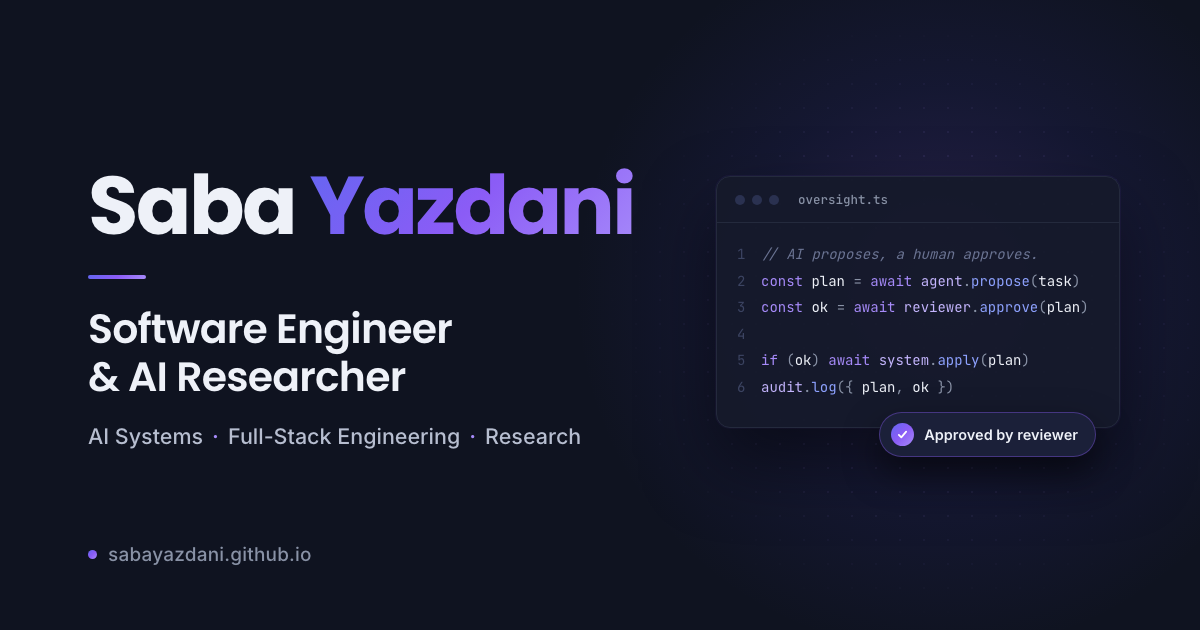
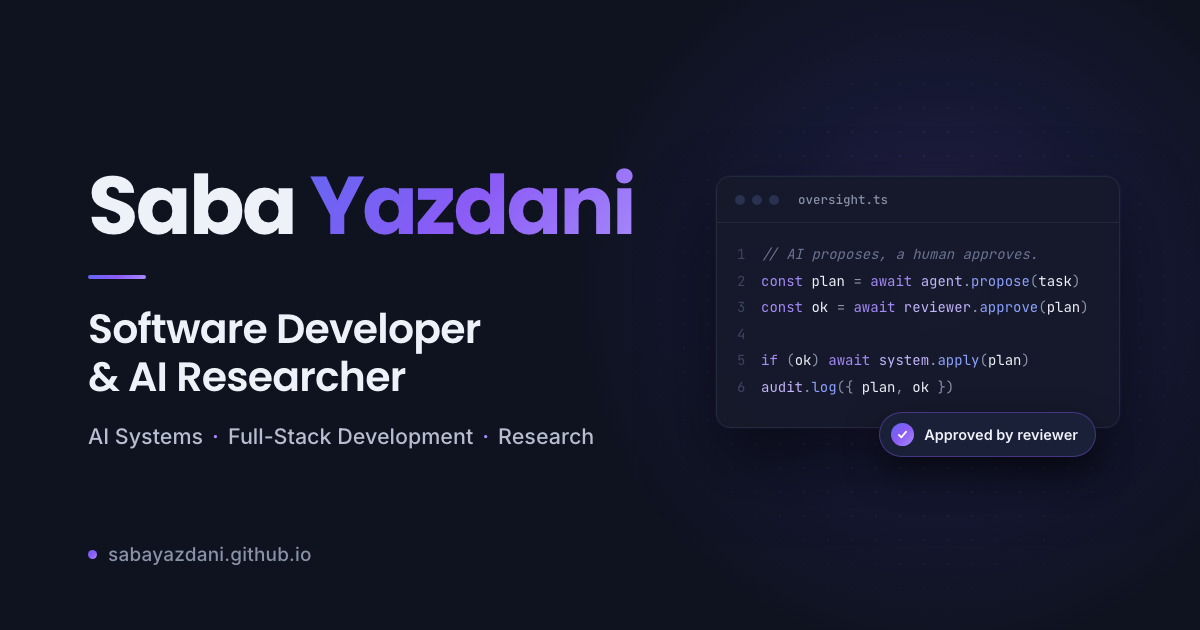
Software Developer title, lead with Realest and Maridian

Changed region(s): [[0.2775, 0.6635, 0.4933, 0.7238], [0.2158, 0.4825, 0.4008, 0.573]]

diff --git a/index.html b/index.html
@@ -3,21 +3,21 @@
 <head>
 <meta charset="utf-8">
 <meta name="viewport" content="width=device-width, initial-scale=1">
-<title>Saba Yazdani | Full-Stack Engineer</title>
+<title>Saba Yazdani | Software Developer</title>
 <meta name="author" content="Saba Yazdani">
-<meta name="description" content="Full-stack engineer in Toronto. Builds and maintains Gradify, an AI-assisted platform in production at York University. React, TypeScript, Node, Python, PostgreSQL, LLM systems.">
-<meta property="og:title" content="Saba Yazdani | Software Engineer &amp; AI Researcher">
-<meta property="og:description" content="Software engineering, AI, research, and selected projects including Gradify and agentic systems. Based in Toronto, with four peer-reviewed publications.">
+<meta name="description" content="Software developer in Toronto building AI products, including the Realest voice agent, the Maridian multi-agent system, and the Gradify grading platform.">
+<meta property="og:title" content="Saba Yazdani | Software Developer &amp; AI Researcher">
+<meta property="og:description" content="Software developer in Toronto building AI products, including the Realest voice agent, the Maridian multi-agent system, and the Gradify grading platform.">
 <meta property="og:type" content="website">
 <meta property="og:url" content="https://sabayazdani.github.io/">
 <meta property="og:image" content="https://sabayazdani.github.io/preview.png">
 <meta property="og:image:width" content="1200">
 <meta property="og:image:height" content="630">
-<meta property="og:image:alt" content="Saba Yazdani | Software Engineer &amp; AI Researcher">
+<meta property="og:image:alt" content="Saba Yazdani | Software Developer &amp; AI Researcher">
 
 <meta name="twitter:card" content="summary_large_image">
-<meta name="twitter:title" content="Saba Yazdani | Software Engineer &amp; AI Researcher">
-<meta name="twitter:description" content="Software engineering, AI, research, and selected projects including Gradify and agentic systems. Based in Toronto, with four peer-reviewed publications.">
+<meta name="twitter:title" content="Saba Yazdani | Software Developer &amp; AI Researcher">
+<meta name="twitter:description" content="Software developer in Toronto building AI products, including the Realest voice agent, the Maridian multi-agent system, and the Gradify grading platform.">
 <meta name="twitter:image" content="https://sabayazdani.github.io/preview.png">
 <script>
   /* runs before first paint: no dark-mode flash, and .reveal only hides content when JS is live */
@@ -73,11 +73,13 @@
     </div>
     <div class="about-grid">
       <div class="reveal">
-        <p>I'm a full-stack engineer in Toronto. I build and maintain <strong>Gradify</strong>, an AI-assisted grading platform that runs in production across senior Computer Science courses at York University. React runs the front end, Java and Spring Boot REST services sit behind it, PostgreSQL holds the data, and Claude and Gemini do the multimodal grading.</p>
-        <h3>The part I care about most</h3>
-        <p>Designing the gate between a model and a consequence. On Gradify the model proposes rubric scores and criterion-level feedback, an instructor reviews, overrides and gives final approval before anything reaches a student, and every decision is logged with its justification. I made the same call independently on Maridian, where an agent pipeline recommends recovery actions but nothing customer-facing ships without operator sign-off.</p>
-        <h3>Research and the rest</h3>
-        <p>I've been a research assistant at York since 2024, across three labs: programming education, data mining, and theoretical computer science. I've co-authored four peer-reviewed publications, three of them as co-first author. Outside the lab I build at hackathons, which is where Maridian and Realest came from.</p>
+        <p>I'm a software developer in Toronto. I build AI products end to end, from the Python and Java services that do the work to the React interfaces people use.</p>
+        <h3>Realest</h3>
+        <p>A voice agent that phones rental listing agents on a renter's behalf to check availability, fees, parking, and pet policies, built with a team of four at the AI Tinkerers hackathon. I built the outbound calling in Python with FastAPI and asyncio, so many calls run at once with per-call timeouts and fallbacks. I also built the email fallback for calls nobody answers, with a guard so no message goes out twice, and the LLM pipeline that turns each call transcript into structured data used to re-rank the listings.</p>
+        <h3>Maridian</h3>
+        <p>A decision layer for a bakery's production floor, built at the TMLS Agentic Hackathon. It takes defect events from the line, runs them through LLM agents for triage, action planning, and scoring, and streams live updates to a React and Next.js dashboard. Nothing customer-facing happens until an operator approves it, and every decision is logged. I built the FastAPI backend, the agent workflow, and the Server-Sent Events stream, and deployed it to Vercel and Railway.</p>
+        <h3>Gradify</h3>
+        <p>The AI-assisted grading platform I build and maintain for senior Computer Science courses at York University. Claude and Gemini propose scores for handwritten and PDF work, and instructors approve each result before students see it. It runs on React, Spring Boot, and PostgreSQL.</p>
       </div>
       <aside class="reveal">
         <ul class="facts">
@@ -192,28 +194,11 @@
     <div class="head reveal">
       <p class="eyebrow">What I've built</p><div class="rule"></div>
       <h2>Selected Projects</h2>
-      <p>One platform in production and two agent systems shipped under hackathon deadlines.</p>
+      <p>Two agent systems shipped under hackathon deadlines, and a platform in production at York University.</p>
     </div>
 
     <article class="proj reveal">
       <div class="num">01</div>
-      <div>
-        <p class="ptag">Production · York University</p>
-        <h3>Gradify: AI-Assisted Grading Platform</h3>
-        <p class="blurb">A full-stack platform that grades handwritten and PDF submissions with multimodal LLMs, and keeps a human in final control of every result.</p>
-        <ul>
-          <li>Built and deployed the full stack for live courses: React instructor, student, and admin workflows over Spring Boot REST APIs, PostgreSQL persistence, and role-based access control.</li>
-          <li>Designed the AI oversight model. The model proposes rubric scores and criterion-level feedback, an instructor overrides and gives final approval before release, and every decision is logged with its justification.</li>
-          <li>Built a Java autograding pipeline with in-memory compilation via the JavaCompiler API, JUnit 5 execution through the Platform Launcher, and Checkstyle static analysis with weighted test and style scoring.</li>
-          <li>Developed asynchronous batch processing with Spring @Async and custom thread pools: concurrent multi-student grading, per-batch locking, retries, progress tracking, and email delivery.</li>
-        </ul>
-        <div class="tags"><span class="tag">React</span><span class="tag">Java</span><span class="tag">Spring Boot</span><span class="tag">PostgreSQL</span><span class="tag">REST APIs</span><span class="tag">Claude</span><span class="tag">Gemini</span><span class="tag">JUnit 5</span><span class="tag">Checkstyle</span></div>
-        <div class="plinks"><a href="https://gradify.eecs.yorku.ca/" target="_blank" rel="noopener"><i class="bi bi-box-arrow-up-right"></i> Visit Gradify</a></div>
-      </div>
-    </article>
-
-    <article class="proj reveal">
-      <div class="num">02</div>
       <div>
         <p class="ptag">AI Tinkerers Hackathon 2026</p>
         <h3>Realest: AI Voice Agent for Rental Verification</h3>
@@ -230,14 +215,14 @@
     </article>
 
     <article class="proj reveal">
-      <div class="num">03</div>
+      <div class="num">02</div>
       <div>
         <p class="ptag">TMLS Agentic Hackathon 2026</p>
         <h3>Maridian: Multi-Agent Decision Layer with Operator Sign-Off</h3>
         <p class="blurb">A decision layer for the factory floor: it ingests production-line defect events and recommends recovery actions, but never acts alone.</p>
         <ul>
           <li>Built the Python and FastAPI backend and its REST API, streaming live workflow updates to a React and Next.js dashboard over Server-Sent Events.</li>
-          <li>Engineered an LLM multi-agent workflow for incident triage, action planning, and scoring, with human-in-the-loop approval controls and decision logging so no customer-facing action ships without operator sign-off.</li>
+          <li>Designed an LLM multi-agent workflow for incident triage, action planning, and scoring, with human-in-the-loop approval controls and decision logging so no customer-facing action ships without operator sign-off.</li>
           <li>Deployed both tiers to managed cloud hosting as a working public application.</li>
         </ul>
         <div class="tags"><span class="tag">Next.js</span><span class="tag">React</span><span class="tag">FastAPI</span><span class="tag">Python</span><span class="tag">SQLite</span><span class="tag">Server-Sent Events</span><span class="tag">Vercel</span><span class="tag">Railway</span></div>
@@ -245,6 +230,23 @@
           <a href="https://fgf-sentinel-web.vercel.app/maridian/login.html" target="_blank" rel="noopener"><i class="bi bi-box-arrow-up-right"></i> Live demo</a>
           <a href="https://github.com/sabayazdani/maridian-sentinel" target="_blank" rel="noopener"><i class="bi bi-github"></i> View code</a>
         </div>
+      </div>
+    </article>
+
+    <article class="proj reveal">
+      <div class="num">03</div>
+      <div>
+        <p class="ptag">Production · York University</p>
+        <h3>Gradify: AI-Assisted Grading Platform</h3>
+        <p class="blurb">A full-stack platform that grades handwritten and PDF submissions with multimodal LLMs, and keeps a human in final control of every result.</p>
+        <ul>
+          <li>Built and deployed the full stack for live courses: React instructor, student, and admin workflows over Spring Boot REST APIs, PostgreSQL persistence, and role-based access control.</li>
+          <li>Designed the AI oversight model. The model proposes rubric scores and criterion-level feedback, an instructor overrides and gives final approval before release, and every decision is logged with its justification.</li>
+          <li>Built a Java autograding pipeline with in-memory compilation via the JavaCompiler API, JUnit 5 execution through the Platform Launcher, and Checkstyle static analysis with weighted test and style scoring.</li>
+          <li>Developed asynchronous batch processing with Spring @Async and custom thread pools: concurrent multi-student grading, per-batch locking, retries, progress tracking, and email delivery.</li>
+        </ul>
+        <div class="tags"><span class="tag">React</span><span class="tag">Java</span><span class="tag">Spring Boot</span><span class="tag">PostgreSQL</span><span class="tag">REST APIs</span><span class="tag">Claude</span><span class="tag">Gemini</span><span class="tag">JUnit 5</span><span class="tag">Checkstyle</span></div>
+        <div class="plinks"><a href="https://gradify.eecs.yorku.ca/" target="_blank" rel="noopener"><i class="bi bi-box-arrow-up-right"></i> Visit Gradify</a></div>
       </div>
     </article>
 

diff --git a/styles.css b/styles.css
@@ -83,6 +83,9 @@ section{padding:104px 0}
 .about-grid h3{font-size:1.15rem; font-weight:600; margin-bottom:12px}
 .about-grid p+h3{margin-top:28px}
 .facts{list-style:none; margin:0; padding:26px; background:var(--card); border:1px solid var(--line); border-radius:var(--radius)}
+/* let grid columns shrink on small phones; long addresses wrap only when they must */
+.about-grid > *, .two > *, .contact > *{min-width:0}
+.facts a, .clist a{overflow-wrap:anywhere}
 .facts li{display:flex; gap:12px; padding:11px 0; border-bottom:1px solid var(--line); font-size:14.5px}
 .facts li:last-child{border-bottom:0; padding-bottom:0}
 .facts li:first-child{padding-top:0}
@@ -132,7 +135,7 @@ section{padding:104px 0}
 .plinks a{font-size:14px; font-weight:600; display:inline-flex; align-items:center; gap:6px}
 
 /* skills */
-.skills{display:grid; grid-template-columns:repeat(auto-fit,minmax(280px,1fr)); gap:24px}
+.skills{display:grid; grid-template-columns:repeat(auto-fit,minmax(min(280px,100%),1fr)); gap:24px}
 .sk{padding:26px; background:var(--card); border:1px solid var(--line); border-radius:var(--radius)}
 .sk h3{font-size:11.5px; font-weight:700; letter-spacing:.16em; text-transform:uppercase; color:var(--accent); margin-bottom:14px}
 

diff --git a/script.js b/script.js
@@ -49,7 +49,7 @@
   });
 
   /* ---- typewriter ---- */
-  var roles = ['Full-Stack Engineer', 'AI Systems Builder', 'Research Assistant @ York', 'Human-in-the-Loop by Design'];
+  var roles = ['Software Developer', 'AI Systems Builder', 'Research Assistant @ York', 'Human-in-the-Loop by Design'];
   var el = document.getElementById('type');
   if (reduce) {
     el.textContent = roles[0];
